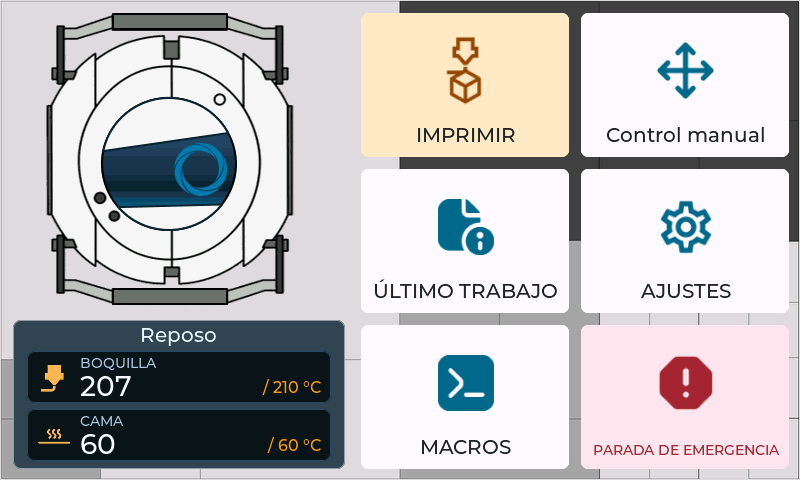
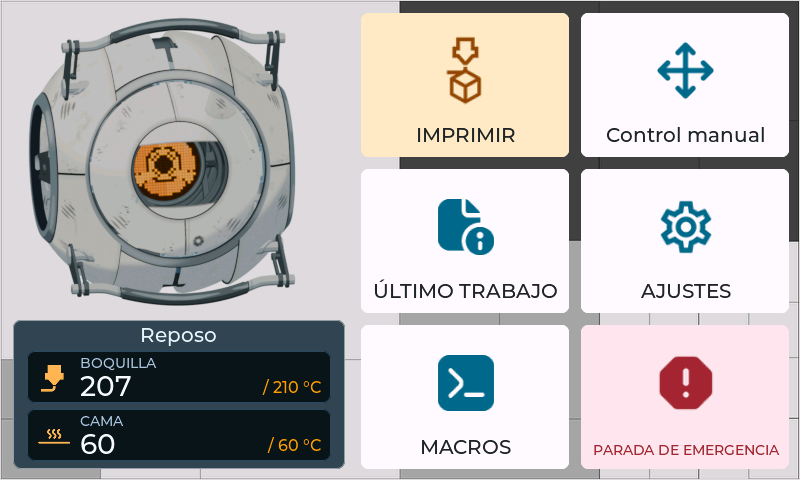
Documenta la versión HD con sus capturas

Changed region(s): [[0.0312, 0.0, 0.375, 0.6562]]

diff --git a/README.md b/README.md
@@ -1,16 +1,18 @@
-# KLIPPER_JC4880P443_SOLID
+# KLIPPER_JC4880P443_SOLID · Núcleo detallado
 
 Firmware para usar el panel táctil **Guition JC4880P443C (ESP32-P4)** como interfaz de una impresora 3D con Klipper y Moonraker. La interfaz PORTAL usa LVGL en horizontal a **800 × 480** y se conecta a Moonraker por Wi-Fi.
 
-## Diseño
+## Núcleo detallado
 
-| Pantalla principal | Salvapantallas durante la impresión |
+Esta versión reproduce animaciones de 300 × 300 px a 12 fps desde microSD. Usa el núcleo integrado durante la carga o cuando falta el clip. Comparte la interfaz y los íconos de la [versión simple](https://github.com/diego-stl/KLIPPER_JC4880P443_SOLID/tree/main).
+
+| Pantalla en reposo | Salvapantallas en reposo |
 | --- | --- |
-| ![Pantalla principal con el core y los controles del panel](final/docs/img/panel.png) | ![Salvapantallas con el core, progreso, tiempos y temperaturas](final/docs/img/salvapantallas.png) |
+| ![Panel en reposo con el núcleo HD](final/docs/img/panel.png) | ![Salvapantallas con el núcleo HD](final/docs/img/salvapantallas.png) |
 
-*Capturas del simulador LVGL con datos de ejemplo.*
+*Capturas de la interfaz LVGL con una impresora simulada y un fotograma del clip incluido para microSD.*
 
-La pantalla principal combina un fondo gris geométrico, iconos de color y un core cuya expresión indica el estado de Klipper. El ojo y los párpados pasan por nueve poses en las pantallas con core y en el salvapantallas. Durante una impresión, el salvapantallas muestra el progreso, los tiempos y las temperaturas con textos atenuados.
+Durante una impresión, el salvapantallas muestra el progreso, los tiempos y las temperaturas junto al núcleo correspondiente al estado de Klipper.
 
 En **Ajustes** puedes probar el salvapantallas, elegir 1, 5 o 10 minutos de inactividad y configurar su brillo por separado. El brillo inicial del salvapantallas es del 25 %. El primer toque restaura el brillo normal y se consume al despertar la pantalla.
 
@@ -35,13 +37,15 @@ idf.py build
 
 En el panel, abre **Ajustes → Wi-Fi y Moonraker** para seleccionar la red, indicar la IP y el puerto del servidor y probar la conexión. Moonraker debe autorizar al panel en la red local. La conexión usa HTTP y WebSocket.
 
+## Preparar la microSD
+
+Copia la carpeta [animaciones](final/assets/portal/cores-hd/animaciones/) a la raíz de una tarjeta FAT32. El panel busca los seis paquetes en `animaciones/prueba_core/lz4/`. Consulta la [guía del firmware](final/README.md#lectura-de-microsd) para ver la asignación de estados y los diagnósticos USB.
+
 ## Documentación
 
 - [Cliente Klipper y Moonraker](final/docs/klipper_backend.md)
 - [Recursos gráficos](final/docs/assets-portal.md)
 - [Simulador Moonraker](final/docs/moonraker-falso.md)
 - [Pruebas de interfaz LVGL](final/tests/portal_host/README.md)
-
-La compilación y las pruebas de simulación pasan. Queda pendiente verificar el brillo y la fluidez del salvapantallas en el panel físico.
 
 Iconos de **Uicons by Flaticon**, **Pictogrammers**, **Google Material Symbols** y **Lucide/Feather**. [Atribuciones y licencias](final/docs/assets-portal.md#fuentes-y-reproducción)
